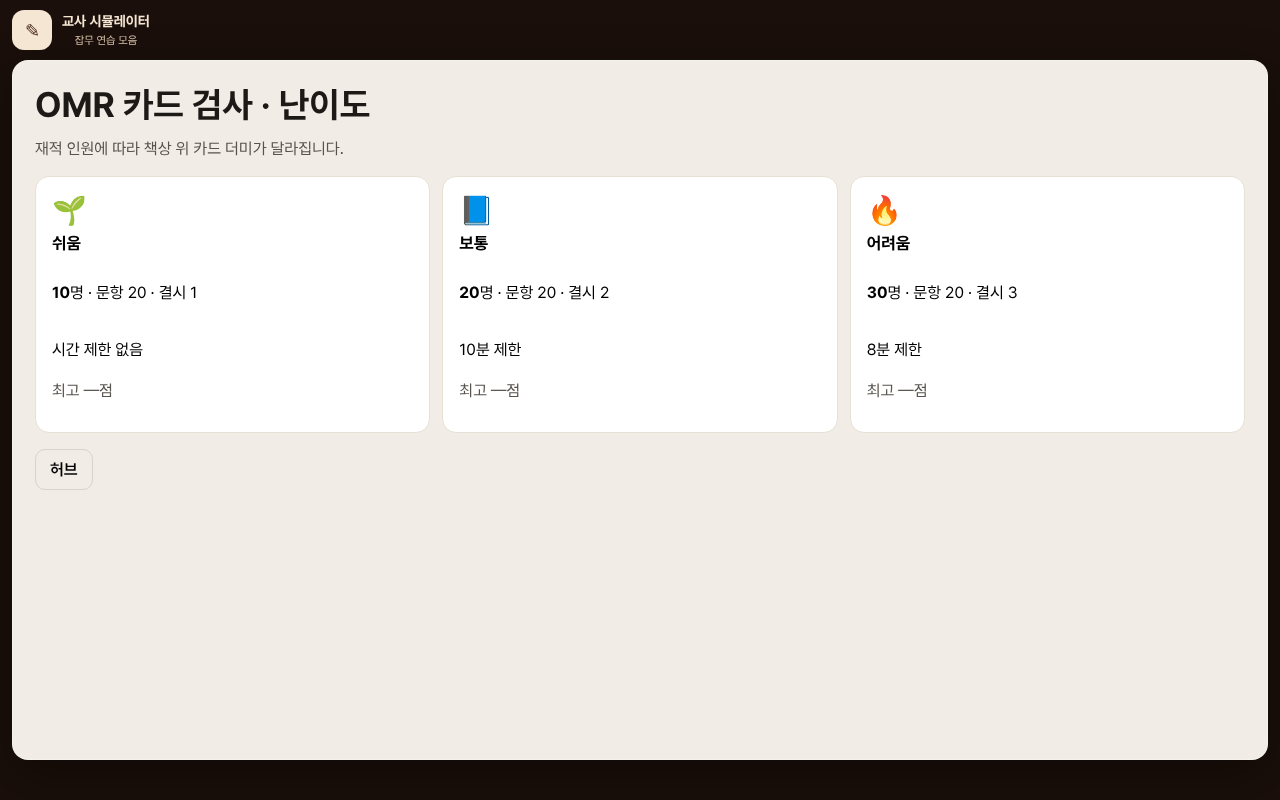
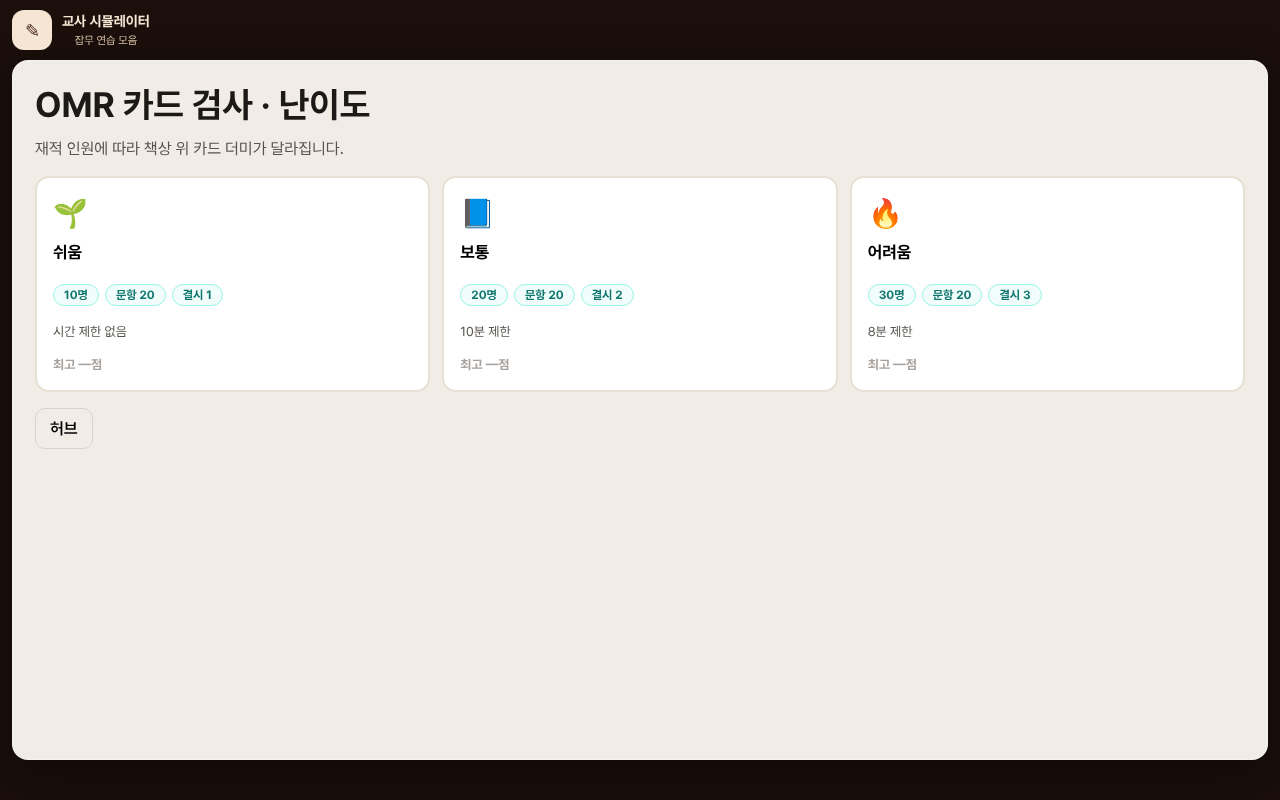
Round 0045: difficulty card meta chips
Show student/question/absent counts as chips and highlight
a saved best score on each difficulty card.

diff --git a/src/style.css b/src/style.css
@@ -1530,3 +1530,53 @@ kbd {
   font-weight: 800;
   color: #9f1239;
 }
+
+
+/* 0045 difficulty card meta chips */
+.diff-card {
+  text-align: left;
+  padding: 18px 16px !important;
+  border-width: 2px;
+  transition: transform 0.12s, box-shadow 0.12s, border-color 0.12s;
+}
+.diff-card:hover {
+  transform: translateY(-2px);
+  box-shadow: 0 12px 24px rgba(15,118,110,0.14);
+  border-color: #14b8a6;
+}
+.diff-card .diff-ico {
+  font-size: 28px;
+  display: inline-block;
+  margin-bottom: 6px;
+}
+.diff-meta {
+  list-style: none;
+  padding: 0;
+  margin: 8px 0;
+  display: flex;
+  flex-wrap: wrap;
+  gap: 6px;
+}
+.diff-meta li {
+  background: #f0fdfa;
+  color: #0f766e;
+  border: 1px solid #99f6e4;
+  border-radius: 999px;
+  padding: 3px 10px;
+  font-size: 12px;
+  font-weight: 700;
+}
+.diff-lim {
+  font-size: 13px;
+  color: #57534e;
+  margin: 4px 0;
+}
+.diff-best {
+  margin: 8px 0 0;
+  font-size: 13px;
+  font-weight: 700;
+  color: #a8a29e;
+}
+.diff-best.has {
+  color: #0f766e;
+}

diff --git a/src/main.ts b/src/main.ts
@@ -293,13 +293,18 @@ function renderDifficulty() {
       const d = DIFFICULTIES[id]
       const lim = d.timeLimitSec ? `${Math.floor(d.timeLimitSec / 60)}분 제한` : '시간 제한 없음'
       const ico = id === 'easy' ? '🌱' : id === 'normal' ? '📘' : '🔥'
+      const bestScore = best[id]?.score
       return `
 <button type="button" class="diff-card" data-diff="${id}">
   <span class="diff-ico" aria-hidden="true">${ico}</span>
   <h2>${d.label}</h2>
-  <p><b>${d.studentCount}</b>명 · 문항 ${d.questionCount} · 결시 ${d.absentCount}</p>
-  <p>${lim}</p>
-  <p class="muted">최고 ${best[id]?.score ?? '—'}점</p>
+  <ul class="diff-meta">
+    <li><b>${d.studentCount}</b>명</li>
+    <li>문항 ${d.questionCount}</li>
+    <li>결시 ${d.absentCount}</li>
+  </ul>
+  <p class="diff-lim">${lim}</p>
+  <p class="diff-best ${bestScore != null ? 'has' : ''}">최고 ${bestScore ?? '—'}점</p>
 </button>`
     })
     .join('')

diff --git a/docs/issues/0045-diff-meta-chips.md b/docs/issues/0045-diff-meta-chips.md
@@ -1,0 +1,10 @@
+# 0045 Difficulty card meta chips
+
+## Critique
+Difficulty stats were a dense paragraph; best score muted.
+
+## Fix
+Chip row for 인원/문항/결시; hover lift; teal best when present.
+
+## Verify
+e2e OK · viewport OK

diff --git a/docs/ROUNDLOG.md b/docs/ROUNDLOG.md
@@ -61,3 +61,6 @@
 
 ## Round 0044 (02:53 KST)
 - Cleaner inspection OMR answers/handwriting
+
+## Round 0045 (02:54 KST)
+- Difficulty card meta chips
